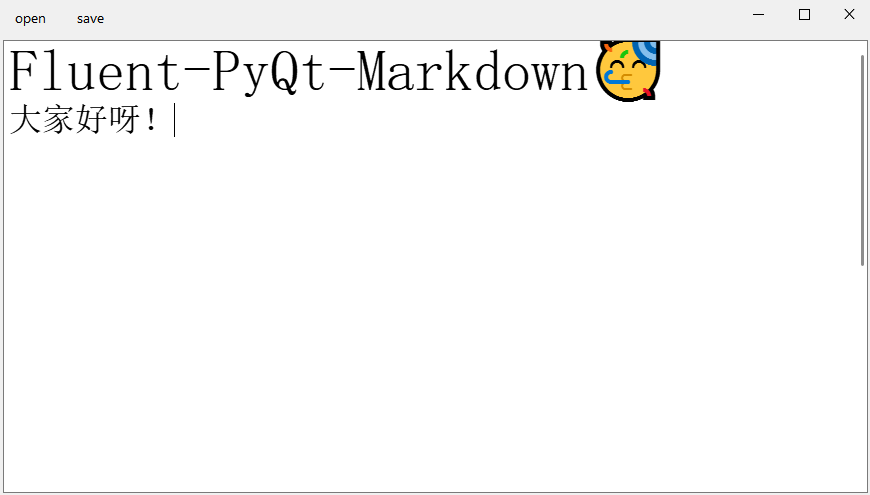
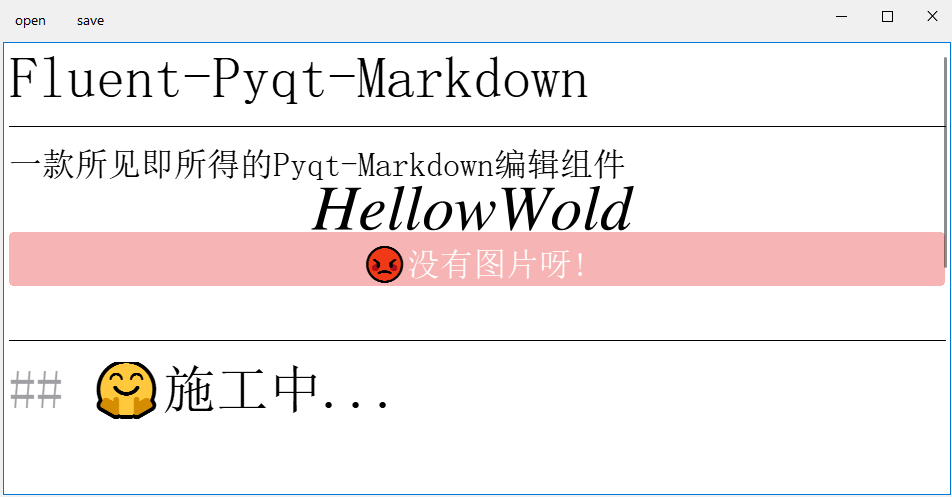
修改了图片路径不存在时的显示问题

diff --git a/MarkdownEditor/render_function.py b/MarkdownEditor/render_function.py
@@ -1,10 +1,11 @@
 import io
+import os
 import typing as t
 
 import matplotlib.font_manager as mfm
 from PyQt5.QtCore import QPointF
 from PyQt5.QtCore import Qt, QByteArray, QRectF, QSizeF
-from PyQt5.QtGui import QPainter, QFontMetrics, QImage
+from PyQt5.QtGui import QPainter, QFontMetrics, QImage, QColor
 from PyQt5.QtSvg import QSvgRenderer
 from matplotlib.mathtext import MathTextParser
 
@@ -74,7 +75,11 @@ class ImageRender():
     @classmethod
     def renderImage(cls, url: str) -> QImage:
         if url not in cls.imagePool:
-            cls.imagePool[url] = QImage(url)
+            # 如果不存在
+            if os.path.exists(url):
+                cls.imagePool[url] = QImage(url)
+            else:
+                cls.imagePool[url] = None
         return cls.imagePool[url]
 
 
@@ -196,13 +201,29 @@ def renderImage(tp: TextParagraph, data: str, ast: MarkdownASTBase, painter: QPa
     if tp.margins().left() != tp.paintPoint().x():
         tp.setPaintPoint(QPointF(float(tp.margins().left()),
                                  float(tp.paintPoint().y() + tp.lineHeight() + tp.inPragraphReutrnSpace())))
-
-    # reszie
     width = tp.viewWdith() - tp.margins().left() - tp.margins().right()
-    image = image.scaled(int(width), int(image.height() / image.width() * width), Qt.KeepAspectRatio)
     p = QPointF(tp.margins().left(), tp.paintPoint().y()).toPoint()
-    painter.drawImage(p, image)
-    tp.setPaintPoint(QPointF(tp.margins().left(), tp.paintPoint().y() + image.height()))
+
+    # the image is not exists
+    if image is None:
+        text = "😡没有图片呀!"
+        fm = painter.fontMetrics()
+        rect = fm.boundingRect(text)
+        painter.setPen(Qt.NoPen)
+        painter.setBrush(QColor(225, 0, 0, 75))
+        img_size = QSizeF(width, rect.height() + 2 * tp.inPragraphReutrnSpace())
+        painter.drawRoundedRect(QRectF(p, img_size), 5, 5)
+        painter.setPen(QColor(255, 255, 255, 255))
+        textP = QPointF((img_size.width() - rect.width()) / 2,
+                        (p.y() + (img_size.height() + rect.height()) / 2 - fm.descent()))
+        painter.drawText(textP, text)
+        nextP = QPointF(tp.margins().left(), tp.paintPoint().y() + img_size.height())
+    else:
+        # reszie
+        image = image.scaled(int(width), int(image.height() / image.width() * width), Qt.KeepAspectRatio)
+        painter.drawImage(p, image)
+        nextP = QPointF(tp.margins().left(), tp.paintPoint().y() + image.height())
+    tp.setPaintPoint(nextP)
 
 
 @TextParagraph.registerRenderFunction(TextParagraph.Render_InlineLatexImage)

diff --git a/MarkdownEditor/core.py b/MarkdownEditor/core.py
@@ -103,7 +103,7 @@ class MarkdownEdit(QTextEdit):
 
     def pasteFromClipboard(self):
         """ paste form clipboard """
-        clipboard, cursor = QApplication.clipboard(), self.document().cursor()
+        clipboard, cursor = QApplication.clipboard(), self.cursor()
         cursor.swapSelectionContent(text=str(clipboard.text()))
         self.update()
 
@@ -111,7 +111,7 @@ class MarkdownEdit(QTextEdit):
         """ copy to clipboard """
         # 设置剪贴板文本
         clipboard = QApplication.clipboard()
-        start_ast, start_pos, end_ast, end_pos = self.document().cursor().selectedASTs()
+        start_ast, start_pos, end_ast, end_pos = self.cursor().selectedASTs()
         start_idx = self.document().ast().index(start_ast)
         # get copy text
         copy_text = ""
@@ -135,7 +135,7 @@ class MarkdownEdit(QTextEdit):
 
         # 2. 从缓存中获取图片绘制
         # 2. 不要viewport内的跳过
-        y = 0
+        y = self._margins.top()
         painter = QPainter(self.viewport())
         painter.translate(-rect.x(), -rect.y())
         cachePxiamp = self._cachePaint.cachePxiamp()
